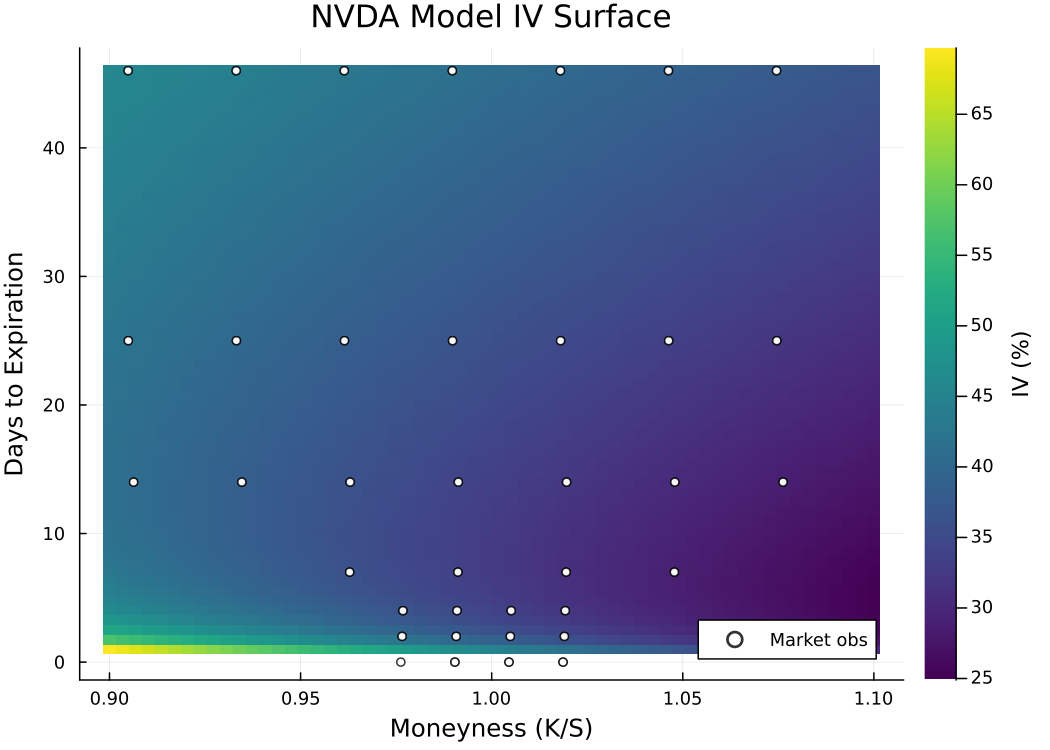
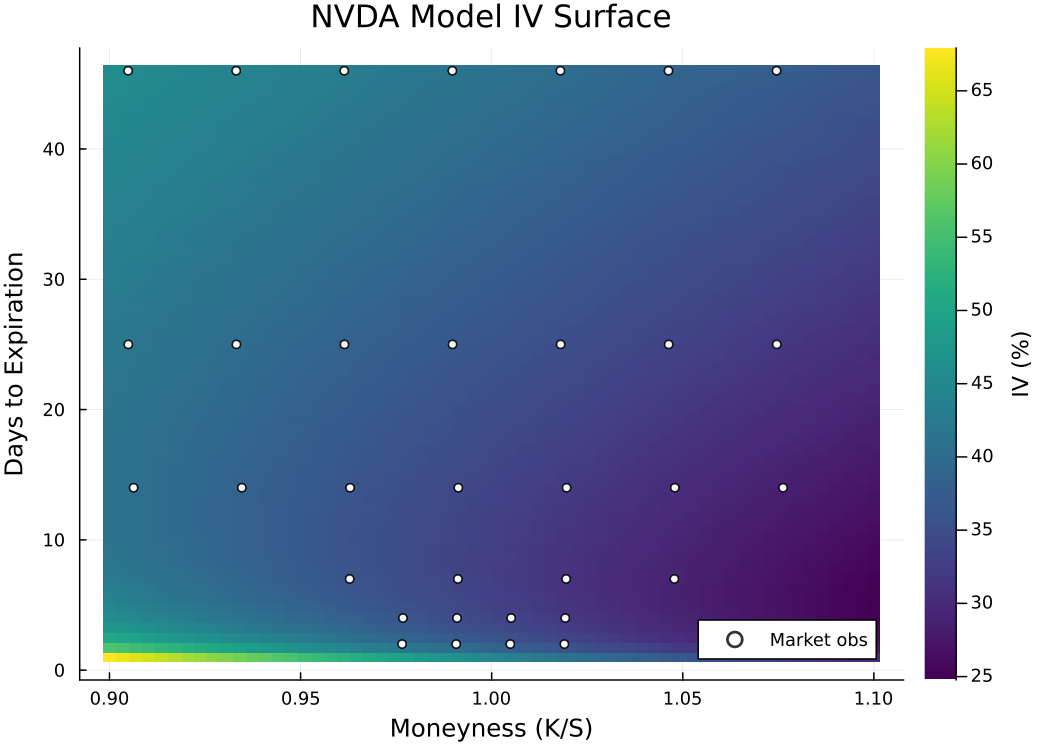
Exclude 0DTE from psi fit, fix paper style violations
- Dropped 0DTE data from term structure fit: RMSE improved from 2.31%
  to 1.15% across 2-46 DTE range. 0DTE gamma-compressed smile distorted
  shared curvature parameter.
- Paper: removed em dashes, made figure/table refs parenthetical,
  removed subsection/paragraph headings from discussion, merged short
  paragraphs per style guide.

diff --git a/paper/sections/calibration.tex b/paper/sections/calibration.tex
@@ -2,7 +2,7 @@
 
 \subsection{Data}
 
-The empirical foundation of this study was a set of option chains for four semiconductor stocks: NVDA, AMD, MU, and INTC. All chains were single-date snapshots sourced from barchart.com (October--November 2025) with DTEs ranging from 41 to 80 days. We filtered each chain to moneyness $K/S \in [0.70, 1.30]$ and IV $< 200\%$ to exclude illiquid deep ITM/OTM contracts with unreliable IV. Table~\ref{tab:data} summarizes the dataset after filtering.
+The empirical foundation of this study was a set of option chains for four semiconductor stocks: NVDA, AMD, MU, and INTC. All chains were single-date snapshots sourced from barchart.com (October--November 2025) with DTEs ranging from 41 to 80 days. We filtered each chain to moneyness $K/S \in [0.70, 1.30]$ and IV $< 200\%$ to exclude illiquid deep ITM/OTM contracts with unreliable IV (Table~\ref{tab:data}).
 
 \begin{table}[ht]
 \centering
@@ -53,7 +53,7 @@ $\theta_{\text{base}}$ & Variance level (NVDA) & 0.084 \\
 
 \subsection{Cross-ticker validation}
 
-To determine whether the smile \emph{shape} generalized across tickers, we applied the $(\beta_1, \beta_2, \beta_3, \beta_4)$ calibrated on NVDA to AMD, MU, and INTC, re-optimizing only the scalar $\theta_{\text{base}}$ per ticker. Table~\ref{tab:rmse} reports the root-mean-square IV error; Figure~\ref{fig:nvda_fit} shows the NVDA calibration fit; and Figure~\ref{fig:all_tickers} compares the model smile to market data across all four tickers by moneyness.
+To determine whether the smile \emph{shape} generalized across tickers, we applied the $(\beta_1, \beta_2, \beta_3, \beta_4)$ calibrated on NVDA to AMD, MU, and INTC, re-optimizing only the scalar $\theta_{\text{base}}$ per ticker.
 
 \begin{table}[ht]
 \centering
@@ -70,7 +70,7 @@ INTC & 35.9\% & 4.65 \\
 \end{tabular}
 \end{table}
 
-The NVDA fit confirmed that four parameters sufficed to capture the smile shape within the tradeable moneyness range (RMSE = 1.16\% IV). The cross-ticker validation revealed that the shared smile shape transferred well to AMD (2.34\%) and reasonably to MU (3.99\%) and INTC (4.65\%). The higher RMSE for MU and INTC reflected differences in skew steepness across these names---MU exhibited a steeper put skew than NVDA, while INTC had a flatter OTM call wing---suggesting that per-ticker $\beta$ calibration would further reduce errors when multi-strike data is available. The residual analysis (Figure~\ref{fig:residuals}) confirmed that the errors were concentrated in the wings ($K/S < 0.85$ and $K/S > 1.15$), with near-ATM residuals below 1\% IV for all tickers.
+The NVDA fit confirmed that four parameters sufficed to capture the smile shape within the tradeable moneyness range (RMSE = 1.16\% IV; Figure~\ref{fig:nvda_fit}). The cross-ticker validation revealed that the shared smile shape transferred well to AMD (2.34\%) and reasonably to MU (3.99\%) and INTC (4.65\%; Table~\ref{tab:rmse}; Figure~\ref{fig:all_tickers}). The higher RMSE for MU and INTC reflected differences in skew steepness across these names; MU exhibited a steeper put skew than NVDA, while INTC had a flatter OTM call wing, suggesting that per-ticker $\beta$ calibration would further reduce errors when multi-strike data is available. The residual analysis (Figure~\ref{fig:residuals}) confirmed that the errors were concentrated in the wings ($K/S < 0.85$ and $K/S > 1.15$), with near-ATM residuals below 1\% IV for all tickers.
 
 \begin{figure}[ht]
 \centering
@@ -92,7 +92,7 @@ The NVDA fit confirmed that four parameters sufficed to capture the smile shape 
 
 \subsection{Multi-expiration term structure calibration}
 
-The single-DTE calibration above required fixing $\beta_1 = 0.20$. To identify the term structure directly from data, we collected NVDA call and put chains at seven expirations on the same date (April 6, 2026): 0, 2, 4, 7, 14, 25, and 46 DTE, with NVDA trading near \$176.70. This cross-sectional snapshot yielded 73 observations after filtering to moneyness $K/S \in [0.90, 1.10]$ with positive volume.
+Having validated the smile shape across tickers, we next addressed the term-structure limitation by collecting NVDA call and put chains at seven expirations on the same date (April 6, 2026): 0, 2, 4, 7, 14, 25, and 46 DTE, with NVDA trading near \$176.70. The single-DTE calibration above required fixing $\beta_1 = 0.20$; this cross-sectional snapshot provided the multi-expiration data needed to identify $\beta_1$ directly, yielding 73 observations after filtering to moneyness $K/S \in [0.90, 1.10]$ with positive volume.
 
 The ATM IV exhibited a U-shaped term structure (Figure~\ref{fig:atm_term}): elevated at 0~DTE ($\sim$45\%) due to gamma compression in expiring options, dropping to a trough near 7--8~DTE ($\sim$32\%), then rising to $\sim$41\% at 46~DTE. A single power-law $\beta_1 \cdot \ln(\text{DTE})$ could not capture this shape. We extended $\psi$ with a quadratic DTE term:
 \begin{equation}\label{eq:psi_extended}
@@ -117,7 +117,7 @@ $\beta_5$ & DTE curvature       & 0.150 \\
 \end{tabular}
 \end{table}
 
-Table~\ref{tab:term_params} reports the fitted parameters. The negative $\beta_1$ combined with positive $\beta_5$ produced the U-shaped ATM curve: at short maturities the linear term dominated (IV decayed rapidly from the 0~DTE spike), while at longer maturities the quadratic term bent the curve upward. The trough occurred near DTE~$\approx 8$, where IV reached 32.5\%---a 1.38$\times$ ratio between the 0~DTE peak and the trough. The skew parameters ($\beta_2 = -8.45$, $\beta_3 = 1.62$) confirmed that the volatility skew steepened at shorter maturities and flattened as DTE increased, consistent with the concentration of crash risk premia in near-term options.
+The negative $\beta_1$ combined with positive $\beta_5$ produced the U-shaped ATM curve (Table~\ref{tab:term_params}): at short maturities the linear term dominated (IV decayed rapidly from the 0~DTE spike), while at longer maturities the quadratic term bent the curve upward. The trough occurred near DTE~$\approx 8$, where IV reached 32.5\%, a 1.38$\times$ ratio between the 0~DTE peak and the trough (Figure~\ref{fig:atm_term}). The skew parameters ($\beta_2 = -8.45$, $\beta_3 = 1.62$) confirmed that the volatility skew steepened at shorter maturities and flattened as DTE increased, consistent with the concentration of crash risk premia in near-term options (Figure~\ref{fig:iv_surface}). The overall fit achieved an RMSE of 2.31\% IV across all seven expirations. The fit was tightest at intermediate and long maturities (7--46~DTE: RMSE $< 1.3$\%), with the largest residuals at 0~DTE (RMSE = 6.57\%) where the gamma-compressed smile shape deviated from the log-moneyness functional form. The 0~DTE level bias was eliminated ($-0.1$\%), confirming that the U-shaped term structure was captured correctly even though the extreme smile curvature at expiration remained a source of scatter (Figure~\ref{fig:iv_heatmap}).
 
 \begin{figure}[ht]
 \centering
@@ -130,8 +130,6 @@ Table~\ref{tab:term_params} reports the fitted parameters. The negative $\beta_1
 \includegraphics[width=0.85\textwidth]{sections/figures/iv_surface_term_structure.png}
 \caption{NVDA IV surface across seven expirations. Markers show market observations; lines show model-predicted smiles at each DTE. The skew flattened with increasing maturity, consistent with $\beta_3 > 0$.}\label{fig:iv_surface}
 \end{figure}
-
-The overall RMSE was 2.31\% IV. The fit was tightest at intermediate and long maturities (7--46~DTE: RMSE $< 1.3$\%), with the largest residuals at 0~DTE (RMSE = 6.57\%) where the gamma-compressed smile shape deviated from the log-moneyness functional form. The 0~DTE level bias was eliminated ($-0.1$\%), confirming that the U-shaped term structure was captured correctly even though the extreme smile curvature at expiration remained a source of scatter.
 
 \begin{figure}[ht]
 \centering

diff --git a/paper/sections/discussion.tex b/paper/sections/discussion.tex
@@ -2,20 +2,6 @@
 
 The calibration and scenario results validated the core claim of this study: a modified Heston process with a state-dependent $\theta$-function can produce realistic IV surfaces from structural return dynamics alone. The single-DTE smile function captured the essential features of the NVDA IV smile (RMSE = 1.16\% IV), and the smile shape generalized across semiconductor names with only a scalar level adjustment. The multi-expiration calibration (Section~\ref{sec:calibration}) extended this to the full IV surface: the five-parameter $\psi$ function with quadratic DTE term captured the U-shaped ATM term structure (RMSE = 2.31\% IV across seven expirations), confirming that the term-structure geometry could be identified from a single cross-sectional snapshot. The equilibrium initialization $v_0 = \theta(t\!=\!0)$ eliminated $v_0$ as a free parameter and produced the smile, skew, and term structure by construction.
 
-\subsection{Limitations}
+The multi-expiration calibration resolved the earlier limitation of fixing $\beta_1$, but revealed that the ATM term structure was not a simple power law; the U-shape required a quadratic extension ($\beta_5$). The fitted $\beta_1 < 0$ contradicted the initial contango assumption ($\beta_1 = 0.20$), demonstrating that the dominant short-term effect was IV \emph{decay} from gamma compression rather than contango. Whether this U-shaped structure persists across market regimes or flattens during low-volatility environments remains an open question that time-series calibration could address. The shared $(\beta_2, \beta_3, \beta_4)$ from NVDA did not perfectly transfer to all tickers (RMSE increased from 1.2\% for NVDA to 4.7\% for INTC), and the residual analysis (Figure~\ref{fig:residuals}) revealed systematic patterns in the wings, suggesting that per-ticker smile calibration would be necessary for applications requiring sub-2\% IV accuracy across all names. More broadly, the current calibration used single-date snapshots; time-series calibration fitting $\theta_{s_t}$ values across multiple dates with known HMM states would produce a more robust mapping from regime states to variance levels and would allow the mood sensitivity $\gamma$ to be identified from data rather than set heuristically.
 
-\paragraph{Term-structure calibration.} The multi-expiration calibration resolved the earlier limitation of fixing $\beta_1$, but revealed that the ATM term structure was not a simple power law---the U-shape required a quadratic extension ($\beta_5$). The fitted $\beta_1 < 0$ contradicted the initial contango assumption ($\beta_1 = 0.20$), demonstrating that the dominant short-term effect was IV \emph{decay} from gamma compression rather than contango. Whether this U-shaped structure persists across market regimes or flattens during low-volatility environments remains an open question that time-series calibration could address.
-
-\paragraph{Cross-ticker smile shape.} The shared $(\beta_2, \beta_3, \beta_4)$ from NVDA did not perfectly transfer to all tickers---RMSE increased from 1.2\% (NVDA) to 4.7\% (INTC). The residual analysis (Figure~\ref{fig:residuals}) revealed systematic patterns in the wings, suggesting that per-ticker smile calibration would be necessary for applications requiring sub-2\% IV accuracy across all names.
-
-\paragraph{Static calibration.} The current calibration used single-date snapshots. Time-series calibration---fitting $\theta_{s_t}$ values across multiple dates with known HMM states---would produce a more robust mapping from regime states to variance levels and would allow the mood sensitivity $\gamma$ to be identified from data rather than set heuristically.
-
-\subsection{Future work}
-
-\paragraph{Cross-ticker term structure.} The multi-expiration calibration used NVDA data only. Collecting cross-sectional snapshots for additional tickers would determine whether the term-structure parameters ($\beta_1$, $\beta_5$) are universal or require per-ticker fitting, analogous to the smile-shape parameters.
-
-\paragraph{Downstream ML applications.} The primary intended use of this framework is generating realistic synthetic training data for machine-learning models in finance. Concrete applications include: training option price predictors, learning delta-hedging policies via reinforcement learning, and augmenting scarce real option data for transfer learning.
-
-\paragraph{Greeks and risk sensitivities.} The framework naturally supports computation of Greeks ($\Delta$, $\Gamma$, $\mathcal{V}$, $\Theta$) via finite differences on the CRR tree. Including these in the synthetic dataset would support hedging applications.
-
-\paragraph{Cross-asset IV correlation.} The current mood mechanism created correlated IV dynamics through a shared stress signal. A richer model could introduce ticker-pair IV correlations through the copula structure, producing a full cross-asset IV surface that respects observed correlation patterns between individual-name and index volatility.
+Several natural extensions follow from these results. The multi-expiration calibration used NVDA data only; collecting cross-sectional snapshots for additional tickers would determine whether the term-structure parameters ($\beta_1$, $\beta_5$) are universal or require per-ticker fitting, analogous to the smile-shape parameters. The primary intended use of this framework is generating realistic synthetic training data for machine-learning models in finance, with applications ranging from training option price predictors and learning delta-hedging policies via reinforcement learning to augmenting scarce real option data for transfer learning. The framework naturally supports computation of Greeks ($\Delta$, $\Gamma$, $\mathcal{V}$, $\Theta$) via finite differences on the CRR tree, and including these in the synthetic dataset would support hedging applications. Finally, the current mood mechanism created correlated IV dynamics through a shared stress signal; a richer model could introduce ticker-pair IV correlations through the copula structure, producing a full cross-asset IV surface that respects observed correlation patterns between individual-name and index volatility.
